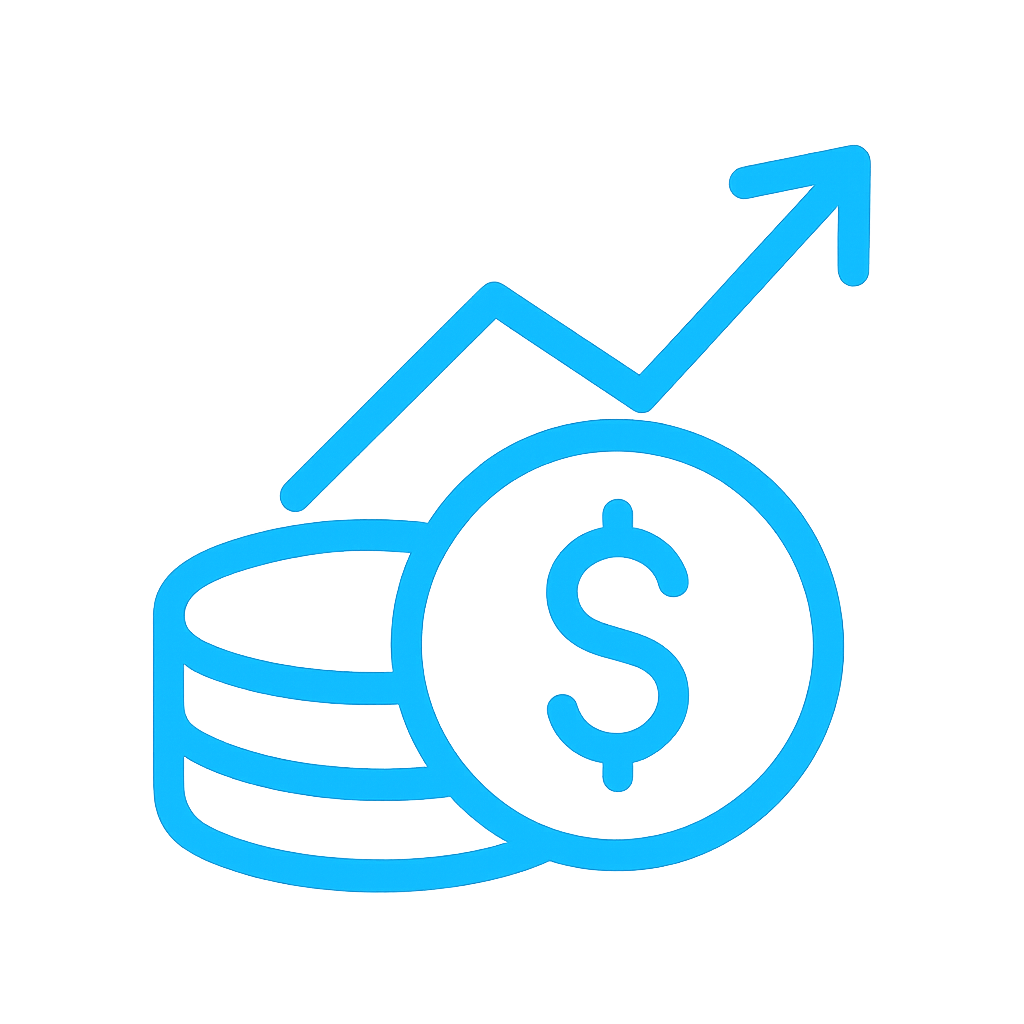
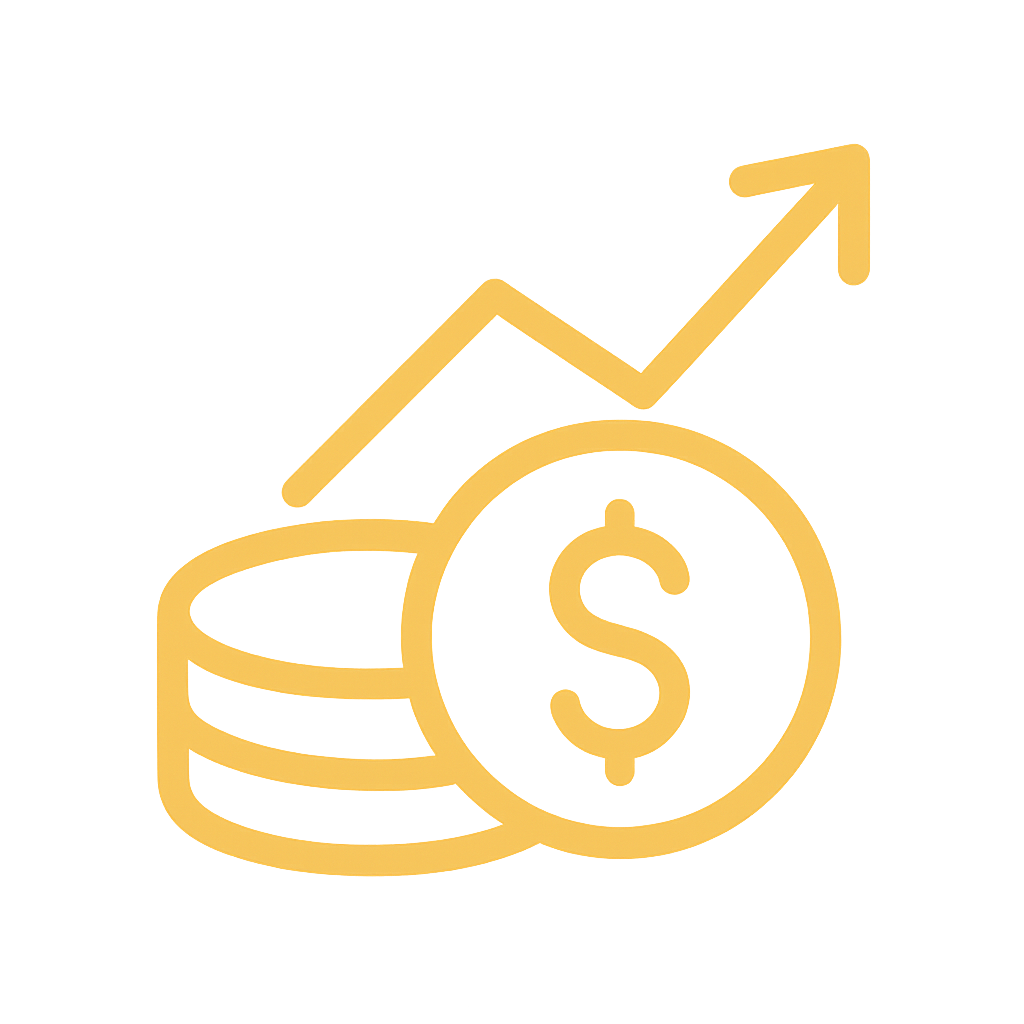
ajustes generales
Se realizan cambios a la pagina para mostrar su contenido en moviles de una manera diferente

Changed region(s): [[0.125, 0.125, 0.875, 0.875]]

diff --git a/src/sections/Servicios.tsx b/src/sections/Servicios.tsx
@@ -3,7 +3,7 @@
 import { useState } from "react";
 import Image from "next/image";
 import Link from "next/link";
-import { motion } from "framer-motion";
+import { motion, AnimatePresence } from "framer-motion";
 
 const services = [
     {
@@ -24,7 +24,7 @@ const services = [
         id: 3,
         title: "Gestión de Trámites",
         description:
-            "Simplificamos el proceso de tu solicitud, gestionando los tramites correspondientes agilizando el desarrollo de los temas, garantizando amplios beneficios. Creamos soluciones sostenibles y estratégicas que generan resultados.",
+            "Simplificamos el proceso de tu solicitud, gestionando los trámites correspondientes agilizando el desarrollo de los temas, garantizando amplios beneficios. Creamos soluciones sostenibles y estratégicas que generan resultados.",
         image: "/gestion_tramites.png",
     },
 ];
@@ -33,15 +33,19 @@ export default function Servicios() {
     const [selected, setSelected] = useState<number | null>(null);
 
     return (
-        <section id="servicios" className="w-full min-h-screen bg-white flex items-center">
+        <section
+            id="servicios"
+            className="w-full min-h-screen bg-white flex items-center"
+        >
             <div className="max-w-7xl mx-auto text-center px-6 w-full">
                 {/* Título */}
-                <h2 className="text-3xl md:text-4xl font-extrabold text-[#04268c]">
+                <h2 className="px-6 py-3 bg-blue-950 text-white font-semibold rounded-full shadow-md hover:bg-[#034aa6] transition w-full sm:w-auto text-center inline-block text-[clamp(1.5rem,4vw,2.5rem)]">
                     Nuestros servicios
                 </h2>
                 <p className="mt-4 text-gray-600 max-w-2xl mx-auto">
-                    En Answer ST ofrecemos soluciones estratégicas, asesoría personalizada y
-                    gestión eficiente de trámites para ayudarte a alcanzar tus objetivos.
+                    En Answer ST ofrecemos soluciones estratégicas, asesoría
+                    personalizada y gestión eficiente de trámites para ayudarte a
+                    alcanzar tus objetivos.
                 </p>
 
                 {/* Cards */}
@@ -52,7 +56,9 @@ export default function Servicios() {
                             onClick={() =>
                                 setSelected(selected === service.id ? null : service.id)
                             }
-                            className={`group cursor-pointer bg-white rounded-lg shadow-md border hover:shadow-xl transition p-6 flex flex-col justify-center items-center relative overflow-hidden min-h-[300px] ${selected === service.id ? "border-[#31bf2c]" : "border-gray-200"
+                            className={`group cursor-pointer bg-white rounded-lg shadow-md border hover:shadow-xl transition p-6 flex flex-col items-center relative overflow-hidden min-h-[300px] ${selected === service.id
+                                    ? "border-[#31bf2c]"
+                                    : "border-gray-200"
                                 }`}
                         >
                             {/* Fondo en hover */}
@@ -65,8 +71,8 @@ export default function Servicios() {
                                 />
                             </div>
 
-                            {/* Imagen decorativa */}
-                            <div className="absolute top-1/2 left-1/2 transform -translate-x-1/2 -translate-y-1/2 z-10 opacity-80">
+                            {/* Imagen */}
+                            <div className="relative z-40 flex justify-center items-center mb-4">
                                 <Image
                                     src={service.image}
                                     alt={service.title}
@@ -76,42 +82,48 @@ export default function Servicios() {
                                 />
                             </div>
 
-                            {/* Texto superpuesto con animación */}
-                            <motion.div
-                                initial={{ opacity: 0, y: 20 }}
-                                animate={{ opacity: 1, y: 0 }}
-                                transition={{ duration: 0.6, ease: "easeOut" }}
-                                className="absolute bottom-4 left-1/2 transform -translate-x-1/2 z-20 bg-white/80 px-4 py-2 rounded-md text-center w-[90%]"
-                            >
-                                <h3 className="font-semibold text-lg text-gray-800">
-                                    {service.title}
-                                </h3>
-                            </motion.div>
+                            {/* Título */}
+                            <h3 className="font-semibold text-lg text-gray-800 relative z-20">
+                                {service.title}
+                            </h3>
 
-
+                            {/* Descripción SOLO en móviles */}
+                            <AnimatePresence>
+                                {selected === service.id && (
+                                    <motion.div
+                                        key={service.id}
+                                        initial={{ opacity: 0, y: 10 }}
+                                        animate={{ opacity: 1, y: 0 }}
+                                        exit={{ opacity: 0, y: -10 }}
+                                        transition={{ duration: 0.2 }}
+                                        className="block md:hidden mt-4 px-4 py-3 bg-[#f9f9f9] border-l-4 border-[#31bf2c] rounded-md shadow-sm text-sm text-gray-700 text-justify relative z-30"
+                                    >
+                                        {service.description}
+                                    </motion.div>
+                                )}
+                            </AnimatePresence>
                         </div>
                     ))}
                 </div>
 
-                {/* Texto dinámico */}
-                <div className="mt-8 min-h-[100px]">
-                    {selected !== null ? (
-                        <motion.div
-                            initial={{ opacity: 0, y: 20 }}
-                            animate={{ opacity: 1, y: 0 }}
-                            transition={{ duration: 0.5 }}
-                            className="mt-8 min-h-[100px] max-w-2xl mx-auto px-6 py-4 bg-[#f9f9f9] border-l-4 border-[#31bf2c] rounded-md shadow-sm"
-                        >
-                            <p className="text-gray-700 text-lg text-justify leading-relaxed">
-                                {services.find((s) => s.id === selected)?.description}
-                            </p>
-                        </motion.div>
-
-                    ) : (
-                        <p className="text-gray-400 italic">
-                            Haz clic en un servicio para ver más información
-                        </p>
-                    )}
+                {/* Texto dinámico SOLO en escritorio */}
+                <div className="hidden md:block mt-8 min-h-[100px]">
+                    <AnimatePresence>
+                        {selected !== null && (
+                            <motion.div
+                                key={selected}
+                                initial={{ opacity: 0, y: 20 }}
+                                animate={{ opacity: 1, y: 0 }}
+                                exit={{ opacity: 0, y: -20 }}
+                                transition={{ duration: 0.3 }}
+                                className="mt-8 min-h-[100px] max-w-2xl mx-auto px-6 py-4 bg-[#f9f9f9] border-l-4 border-[#31bf2c] rounded-md shadow-sm"
+                            >
+                                <p className="text-gray-700 text-lg text-justify leading-relaxed">
+                                    {services.find((s) => s.id === selected)?.description}
+                                </p>
+                            </motion.div>
+                        )}
+                    </AnimatePresence>
                 </div>
 
                 {/* Botón */}

diff --git a/src/sections/Asesorias.tsx b/src/sections/Asesorias.tsx
@@ -4,10 +4,10 @@ import Image from "next/image";
 import { motion } from "framer-motion";
 
 const asesorias = [
-    { id: 1, title: "Financiera", image: "/financiera_img.png", border: "#c1f0d6" },
+    { id: 1, title: "Financiera", image: "/financiera_img.png", border: "#e7d52fff" },
     { id: 2, title: "Legal", image: "/legal_img.png", border: "#d0e6ff" },
-    { id: 3, title: "Empresarial", image: "/empresarial_img.png", border: "#ffe9c7" },
-    { id: 4, title: "Salud", image: "/salud_img.png", border: "#ffd6e0" },
+    { id: 3, title: "Empresarial", image: "/empresarial_img.png", border: "#58e435ff" },
+    { id: 4, title: "Salud", image: "/salud_img.png", border: "#d0e6ff" },
     { id: 5, title: "Mediación de conflictos", image: "/mediacion_conflictos.png", border: "#e2d6ff" },
     { id: 6, title: "Medio ambiente", image: "/medio_ambiente_img.png", border: "#d4f4c2" },
 ];
@@ -18,7 +18,7 @@ export default function Asesorias() {
             <div className="max-w-6xl mx-auto text-center px-6 w-full relative">
 
                 {/* Título */}
-                <h2 className="text-2xl md:text-3xl font-extrabold text-[#04268c]">
+                <h2 className="px-6 py-3 bg-blue-950 text-white font-semibold rounded-full shadow-md hover:bg-[#034aa6] transition w-full sm:w-auto text-center inline-block text-[clamp(1.5rem,4vw,2.5rem)]">
                     Nuestras Asesorías
                 </h2>
 
@@ -27,7 +27,7 @@ export default function Asesorias() {
                     initial={{ x: "-100%" }}
                     animate={{ x: "100%" }}
                     transition={{ duration: 8, repeat: Infinity, ease: "linear" }}
-                    className="absolute top-0 left-0 h-1 w-32 bg-[#31bf2c] rounded-full"
+                    className="absolute -top-5 left-0 h-1 w-32 bg-[#31bf2c] rounded-full"
                 />
 
                 {/* Grid de asesorías */}
@@ -50,13 +50,16 @@ export default function Asesorias() {
                             className="flex flex-col items-center text-center p-6 rounded-xl"
                             style={{
                                 border: `4px solid ${item.border}`,
-                                backgroundColor: `${item.border}33`,
+                                backgroundColor: `${item.border}40`,
                             }}
                         >
                             <div className="overflow-hidden rounded-full mb-4">
                                 <motion.div
-                                    whileHover={{ scale: 1.1 }}
-                                    transition={{ duration: 0.2 }}
+                                    // Animación SOLO en móviles (hidden en md para arriba)
+                                    className="block md:hidden"
+                                    animate={{ scale: [1, 1.05, 1] }}
+                                    transition={{ duration: 2, repeat: Infinity, ease: "easeInOut" }}
+                                    whileTap={{ scale: 1.2, rotate: 5 }} // 👈 en mobile usaremos tap (toque)
                                 >
                                     <Image
                                         src={item.image}
@@ -66,6 +69,17 @@ export default function Asesorias() {
                                         className="object-contain"
                                     />
                                 </motion.div>
+
+                                {/* Versión estática en desktop */}
+                                <div className="hidden md:block">
+                                    <Image
+                                        src={item.image}
+                                        alt={item.title}
+                                        width={80}
+                                        height={80}
+                                        className="object-contain"
+                                    />
+                                </div>
                             </div>
                             <motion.h3
                                 whileHover={{ color: item.border }}

diff --git a/src/sections/Compromiso.tsx b/src/sections/Compromiso.tsx
@@ -22,7 +22,7 @@ export default function Distintivo() {
             <div className="max-w-6xl mx-auto text-center px-4 sm:px-6 lg:px-8">
 
                 {/* Título */}
-                <h2 className="text-[clamp(1.5rem,4vw,2.5rem)] font-extrabold text-[#04268c]">
+                <h2 className="px-6 py-3 bg-blue-950 text-white font-semibold rounded-full shadow-md hover:bg-[#034aa6] transition w-full sm:w-auto text-center inline-block text-[clamp(1.5rem,4vw,2.5rem)]">
                     Nuestro Distintivo
                 </h2>
 
@@ -41,9 +41,10 @@ export default function Distintivo() {
                 <div className="mt-6 sm:mt-10">
                     <Slider {...settings}>
                         {[
-                            "/infonagreen_ecologia_uno.jpg",
-                            "/infonagreen_ecologia_dos.jpg",
-                            "/infonagreen_ecologia_tres.jpg",
+                            "/infonagreen_uno.jpg",
+                            "/infonagreen_dos.jpg",
+                            "/infonagreen_tres.jpeg",
+                            "/infonagreen_comercial.jpeg",
                         ].map((src, index) => (
                             <div key={index} className="px-2 sm:px-4">
                                 <div className="relative mx-auto w-full max-w-xs sm:max-w-md md:max-w-lg lg:max-w-2xl rounded-xl overflow-hidden shadow-lg border-4 border-[#31bf2c]/30 transition-transform duration-500 hover:scale-105 aspect-[4/3]">

diff --git a/src/sections/Hero.tsx b/src/sections/Hero.tsx
@@ -30,7 +30,7 @@ export default function Hero() {
                         todo tipo de asesorías.
                     </p>
 
-                    {/* Botones */}
+                    {/* Botones 
                     <div className="mt-8 flex flex-col sm:flex-row gap-4 justify-center md:justify-start w-full sm:w-auto">
                         <Link
                             href="#servicios"
@@ -44,7 +44,7 @@ export default function Hero() {
                         >
                             Nuestras asesorías
                         </Link>
-                    </div>
+                    </div>*/}
                 </div>
 
                 {/* Columna derecha: Imagen */}
@@ -90,7 +90,7 @@ export default function Hero() {
                         className="z-10 w-full h-full flex items-center justify-center"
                     >
                         <Image
-                            src="/logo_answer.png"
+                            src="/answer_heroDos.png"
                             alt="Logo Answer ST"
                             fill
                             className="object-contain"

diff --git a/src/sections/Distintivo.tsx b/src/sections/Distintivo.tsx
@@ -19,7 +19,7 @@ export default function Compromiso() {
             <div className="max-w-5xl mx-auto text-center px-6 w-full relative">
 
                 {/* Título */}
-                <h2 className="text-2xl md:text-3xl font-extrabold text-[#04268c]">
+                <h2 className="px-6 py-3 bg-blue-950 text-white font-semibold rounded-full shadow-md hover:bg-[#034aa6] transition w-full sm:w-auto text-center inline-block text-[clamp(1.5rem,4vw,2.5rem)]">
                     Nuestro compromiso es servirte
                 </h2>
 

diff --git a/src/components/Header.tsx b/src/components/Header.tsx
@@ -15,7 +15,7 @@ export default function Header() {
                 <div className="flex items-center gap-2 flex-wrap">
                     <Image src="/Logo_Letra.png" alt="Logo Answer ST" width={50} height={50} />
                     <span className="font-bold text-lg sm:text-xl text-gray-800 whitespace-nowrap">
-                        ANSWER<span className="text-green-600">st</span>
+                        ANSWER<span className="text-green-600">.st</span>
                     </span>
                 </div>
 
